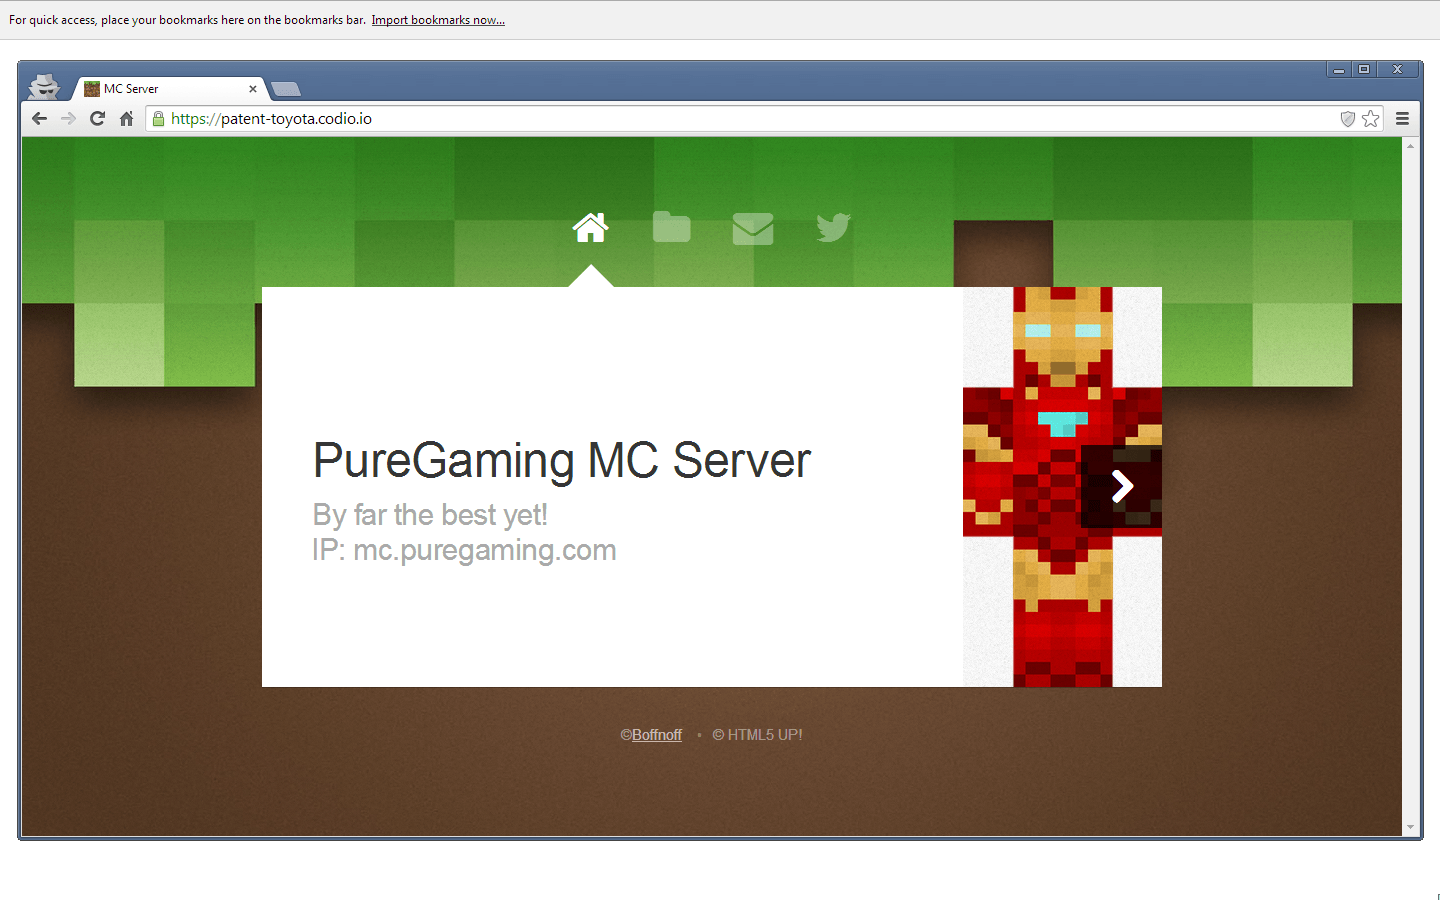
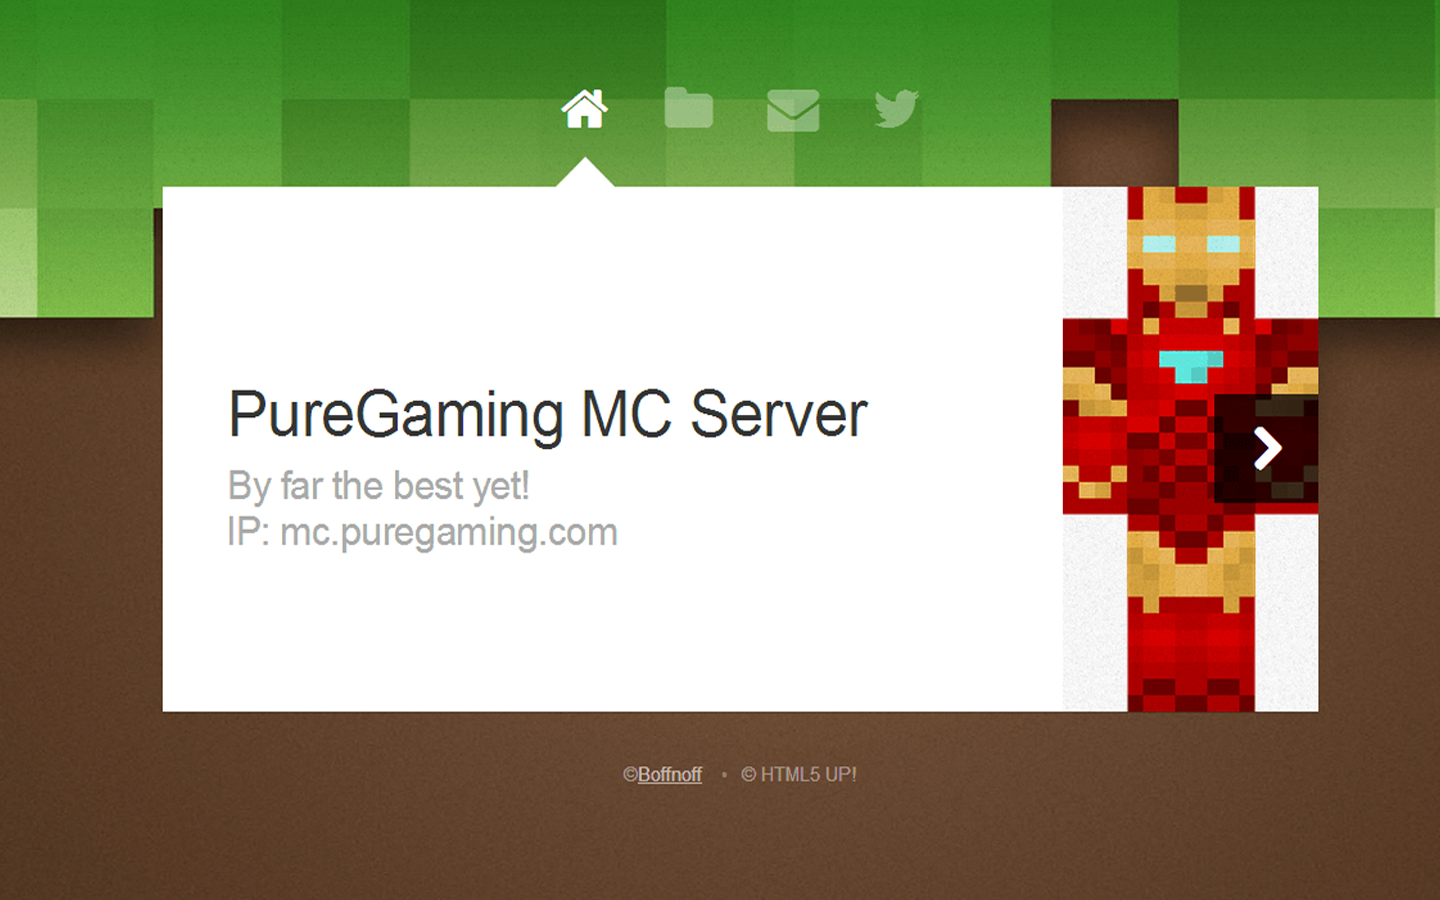
added pure button

diff --git a/index.html b/index.html
@@ -2,7 +2,7 @@
 title: Home
 layout: main
 ---
-<head>
+<head><link rel="stylesheet" href="http://yui.yahooapis.com/pure/0.5.0/pure-min.css">
     <title>Boffnoff</title>
     
 </head>
@@ -11,19 +11,14 @@ layout: main
 <div class="home">
 
 <p>
-    On a dark and stormy night, in a village far far away, Little Red Riding Hood went for a walk to her grandma's house. She decided to bring some oatmeal and raisin cookies (they were her favourite)
-    and some hot coffee. For everyone knows that a nice hot bervage is the perfect medicine for anyone who is unfortunate enough to fall ill. But little was Little Red Riding Hood to know, her grandma
-    was not ill. Instead she fallen pregnant with a terrible troll child. His name, was so unspeakable, he has been referred to as "He Who Must Not Be Named" throughout time. And it is only as time
-    has passed, the rise and fall of kingdoms that once held his power (For he drew his power from fear) that he has become so laughably sick, that he is known now as Robin.
-    <br>
-    Of course he grew tired of always being the bad guy, and it was after millennias had passed that he chose to join the "Light Side" as it were and become a faithful, law abaiding citizen for now... 
-    For years he was feared by those that were once his friends. To avoid  their hateful stares, he changed his name to: "The Chosen One." After only a decade
+    After only a decade
   </p> 
 
   <img src="images/landing_page_favicon.png" />
 </div>
 
-
+<a class="pure-button pure-button-primary" href="#">A Primary Button</a>
+<button class="pure-button pure-button-primary">A Primary Button</button>
 
  <footer class="page_footer">
     Generated: {{ site.time | date: '%d %m %H:%M' }}
